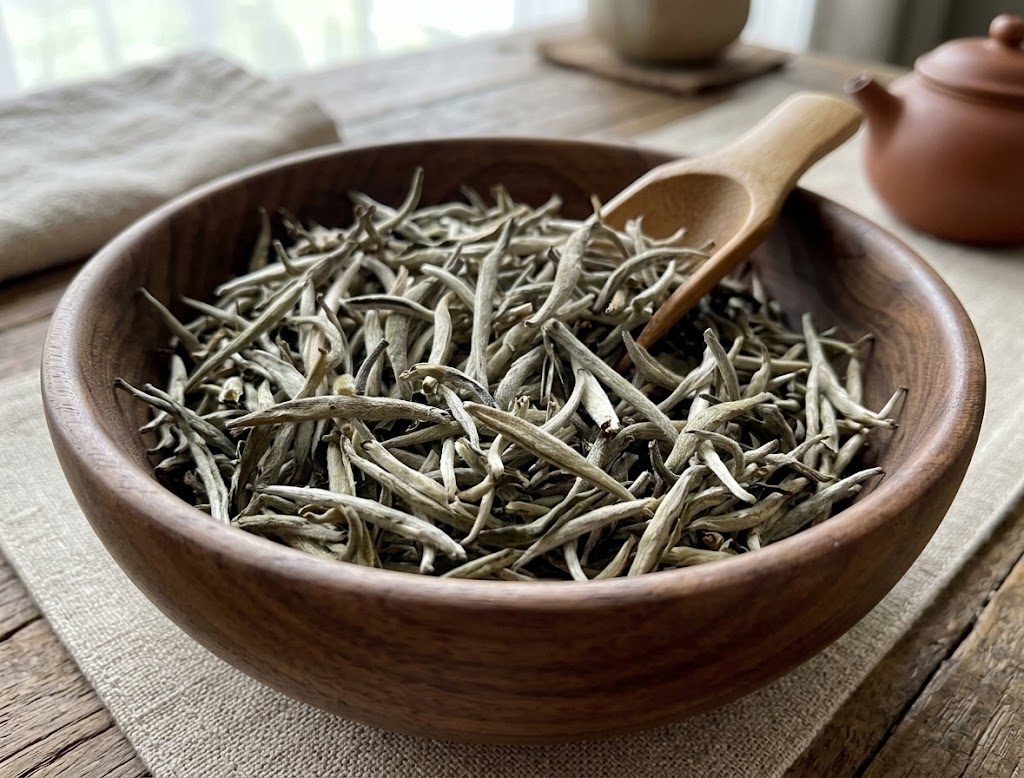
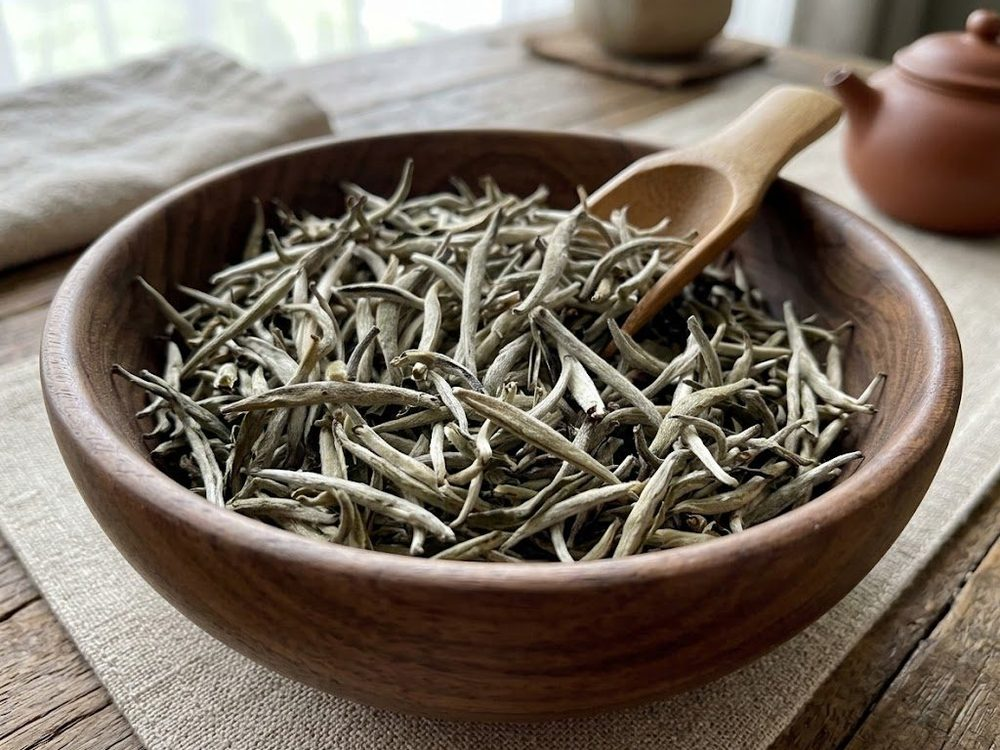
Фотографии чаёв: единое соотношение 4:3 и вёрстка без растяжения
- все фото обрезаны до 4:3, пропорции файла и блока совпадают
- высота блока фото задаётся padding-bottom вместо aspect-ratio,
  поэтому картинка не может растянуться ни в одном браузере
- в img проставлены реальные размеры файлов

diff --git a/index.html b/index.html
@@ -110,7 +110,7 @@
       </div>
             <div class="tea-grid">
         <article class="tea-card">
-          <figure class="tea-photo"><img src="tea/te-guan-yin.jpg" alt="Те Гуань Инь: скрученные листья улуна и янтарный настой" width="1024" height="707" loading="lazy"></figure>
+          <figure class="tea-photo"><img src="tea/te-guan-yin.jpg" alt="Те Гуань Инь: скрученные листья улуна и янтарный настой" width="943" height="707" loading="lazy"></figure>
           <div class="tea-card-body">
             <h3>Те Гуань Инь <small>бирюзовый улун · провинция Фуцзянь</small></h3>
             <p class="tea-lead">Элитный полуферментированный улун с мягким расслабляющим и гармонизирующим действием.</p>
@@ -125,7 +125,7 @@
           </div>
         </article>
         <article class="tea-card">
-          <figure class="tea-photo"><img src="tea/bai-hao-yin-zhen.jpg" alt="Бай Хао Инь Чжэнь: серебристые почки белого чая в деревянной чаше" width="1024" height="778" loading="lazy"></figure>
+          <figure class="tea-photo"><img src="tea/bai-hao-yin-zhen.jpg" alt="Бай Хао Инь Чжэнь: серебристые почки белого чая в деревянной чаше" width="1000" height="750" loading="lazy"></figure>
           <div class="tea-card-body">
             <h3>Бай Хао Инь Чжэнь <small>«Серебряные иглы» · белый чай</small></h3>
             <p class="tea-lead">Элитный китайский белый чай только из нераскрытых почек, покрытых густым серебристым ворсом.</p>
@@ -138,7 +138,7 @@
           </div>
         </article>
         <article class="tea-card">
-          <figure class="tea-photo"><img src="tea/long-jing.jpg" alt="Лун Цзин: воду наливают в стеклянную чашу с плоскими зелёными листьями" width="792" height="1024" loading="lazy"></figure>
+          <figure class="tea-photo"><img src="tea/long-jing.jpg" alt="Лун Цзин: воду наливают в стеклянную чашу с плоскими зелёными листьями" width="792" height="594" loading="lazy"></figure>
           <div class="tea-card-body">
             <h3>Лун Цзин <small>«Колодец Дракона» · зелёный чай</small></h3>
             <p class="tea-lead">Мягкий тонизирующий эффект, ясная концентрация и состояние внутреннего покоя.</p>
@@ -151,7 +151,7 @@
           </div>
         </article>
         <article class="tea-card">
-          <figure class="tea-photo"><img src="tea/da-jin-zhen.jpg" alt="Да Цзинь Чжэнь: золотистые почки красного чая и прозрачная чашка с настоем" width="1024" height="835" loading="lazy"></figure>
+          <figure class="tea-photo"><img src="tea/da-jin-zhen.jpg" alt="Да Цзинь Чжэнь: золотистые почки красного чая и прозрачная чашка с настоем" width="1000" height="750" loading="lazy"></figure>
           <div class="tea-card-body">
             <h3>Да Цзинь Чжэнь <small>красный чай · «Золотые иглы»</small></h3>
             <p class="tea-lead">Мягко тонизирует, согревает тело и помогает сконцентрироваться без резких скачков давления.</p>
@@ -166,7 +166,7 @@
           </div>
         </article>
         <article class="tea-card">
-          <figure class="tea-photo"><img src="tea/da-hun-pao.jpg" alt="Да Хун Пао: тёмные длинные листья тёмного улуна в деревянной чаше" width="785" height="669" loading="lazy"></figure>
+          <figure class="tea-photo"><img src="tea/da-hun-pao.jpg" alt="Да Хун Пао: тёмные длинные листья тёмного улуна в деревянной чаше" width="785" height="589" loading="lazy"></figure>
           <div class="tea-card-body">
             <h3>Да Хун Пао <small>«Большой Красный Халат» · тёмный улун</small></h3>
             <p class="tea-lead">Мягкий расслабляющий эффект при ясном уме: снимает стресс и настраивает на продуктивную работу и содержательные беседы.</p>
@@ -180,7 +180,7 @@
           </div>
         </article>
         <article class="tea-card">
-          <figure class="tea-photo"><img src="tea/puer.jpg" alt="Пуэр: сухой лист, светлый настой шена и тёмный настой шу в трёх чашах" width="912" height="916" loading="lazy"></figure>
+          <figure class="tea-photo"><img src="tea/puer.jpg" alt="Пуэр: сухой лист, светлый настой шена и тёмный настой шу в трёх чашах" width="912" height="684" loading="lazy"></figure>
           <div class="tea-card-body">
             <h3>Пуэр <small>Шен и Шу</small></h3>
             <p class="tea-lead">Шен пуэр («зелёный», сырой) оказывает мощное тонизирующее действие, проясняет ум и дарит плавную энергию на несколько часов — без резких скачков давления и нервозности.</p>
@@ -194,7 +194,7 @@
           </div>
         </article>
         <article class="tea-card">
-          <figure class="tea-photo"><img src="tea/gaba.jpg" alt="ГАБА: тёмные скрученные листья улуна в керамической чаше" width="1024" height="885" loading="lazy"></figure>
+          <figure class="tea-photo"><img src="tea/gaba.jpg" alt="ГАБА: тёмные скрученные листья улуна в керамической чаше" width="1000" height="750" loading="lazy"></figure>
           <div class="tea-card-body">
             <h3>ГАБА <small>улун с гамма-аминомасляной кислотой</small></h3>
             <p class="tea-lead">Мягкое расслабляющее действие, улучшает концентрацию и помогает справиться со стрессом.</p>
@@ -207,7 +207,7 @@
           </div>
         </article>
         <article class="tea-card">
-          <figure class="tea-photo"><img src="tea/yakutskiy.jpg" alt="Якутский чай: молоко наливают в чашу с крепким настоем" width="875" height="1024" loading="lazy"></figure>
+          <figure class="tea-photo"><img src="tea/yakutskiy.jpg" alt="Якутский чай: молоко наливают в чашу с крепким настоем" width="875" height="656" loading="lazy"></figure>
           <div class="tea-card-body">
             <h3>Якутский кучу чай <small>с травами и молоком</small></h3>
             <p class="tea-lead">Традиционный якутский чай по авторскому рецепту Елизаветы Степановны Индеевой: крепкий настой, молоко и душистые северные травы.</p>

diff --git a/theme-tea.css b/theme-tea.css
@@ -214,19 +214,26 @@ h2 { letter-spacing: -.01em; }
   box-shadow: var(--tea-shadow-m);
 }
 
+/* Фотография чая: высота задаётся через padding-bottom, а не через aspect-ratio,
+   поэтому картинка не может растянуться ни в одном браузере. */
 .tea-photo {
   position: relative;
+  height: 0;
+  padding-bottom: 75%;
   margin: 0;
-  aspect-ratio: 4 / 3;
   overflow: hidden;
   background: #e7e4d6;
 }
 
 .tea-photo img {
+  position: absolute;
+  top: 0;
+  left: 0;
   display: block;
   width: 100%;
   height: 100%;
   object-fit: cover;
+  object-position: center;
   transition: transform .7s ease;
 }
 
@@ -987,7 +994,6 @@ h2 { letter-spacing: -.01em; }
 
 @media (max-width: 780px) {
   .tea-grid { grid-template-columns: 1fr; gap: 16px; }
-  .tea-photo { aspect-ratio: 3 / 2; }
   .tea-card-body { padding: 18px 16px 20px; }
   .tea-card-body h3 { font-size: 22px; }
   .tea-card-body .tea-lead { font-size: 14px; }
